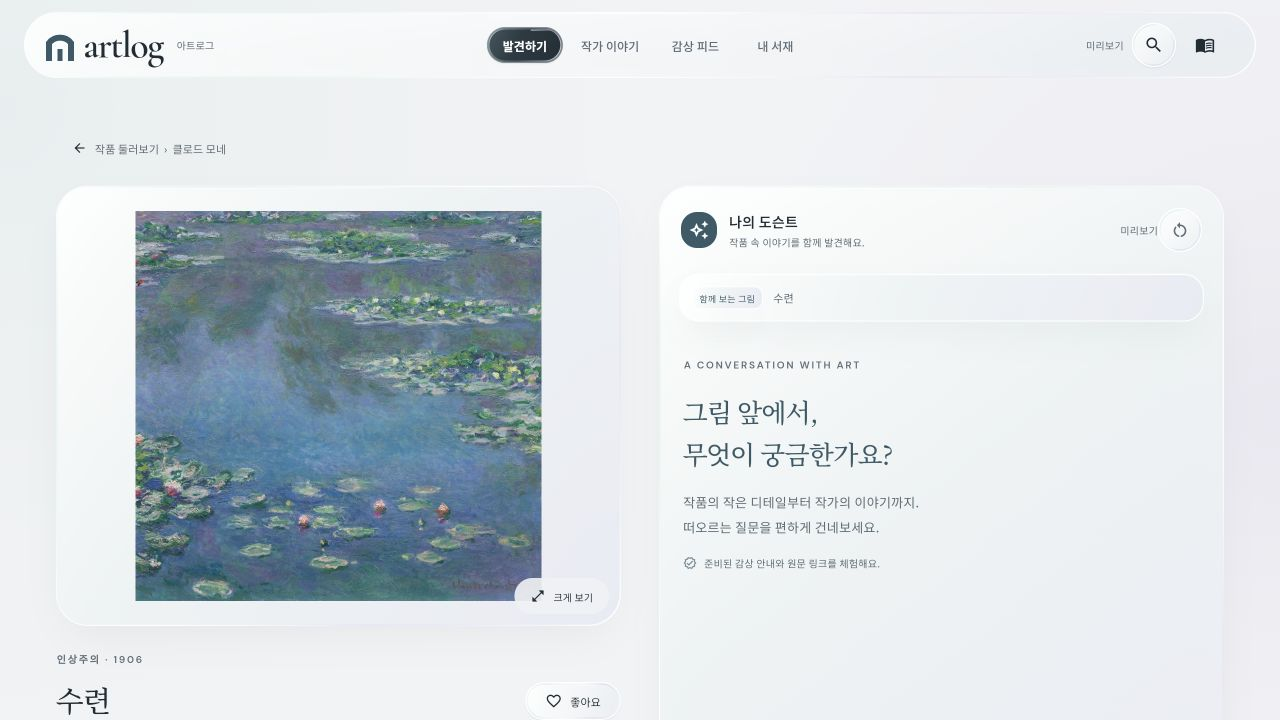
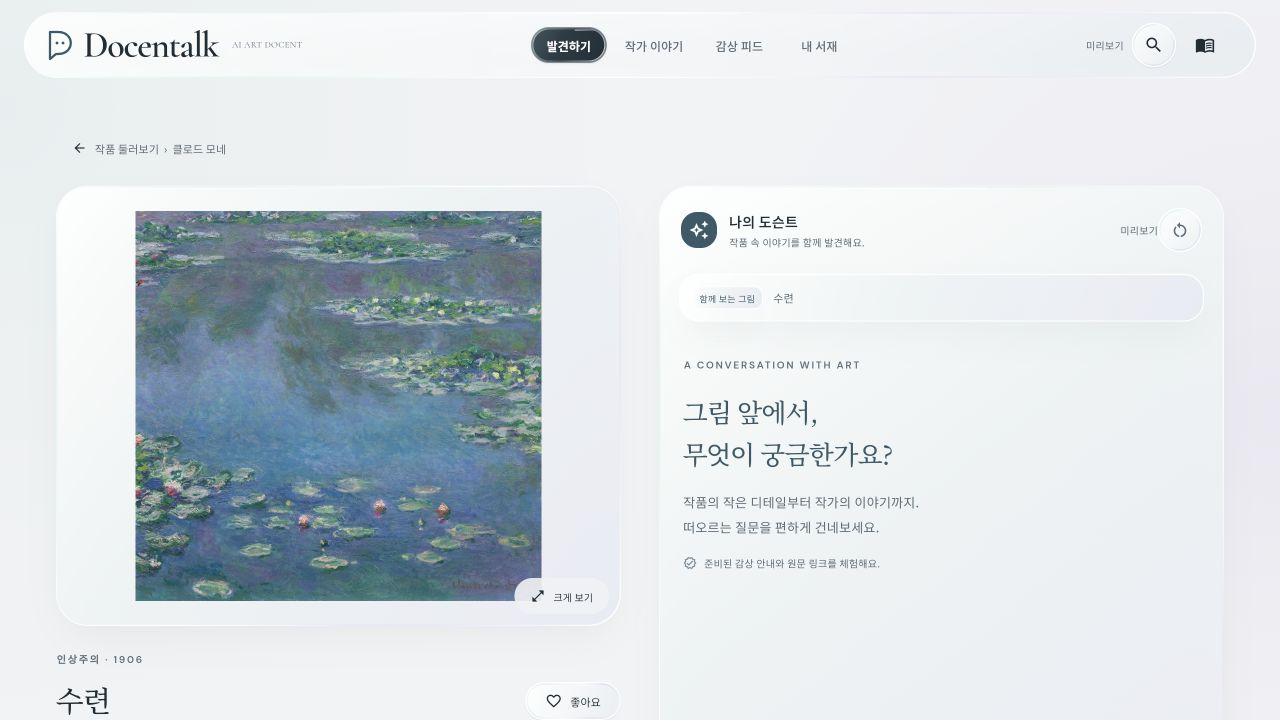
feat: Docentalk 브랜딩과 글라스 UI 완성도 개선

Changed region(s): [[0.375, 0.0306, 0.6562, 0.0917], [0.0312, 0.0306, 0.1875, 0.0917]]

diff --git a/frontend/src/App.tsx b/frontend/src/App.tsx
@@ -26,8 +26,8 @@ export default function App() {
   useEffect(()=>{const listener=()=>{setRoute(readRoute());window.scrollTo({top:0,behavior:'instant'});};window.addEventListener('hashchange',listener);return()=>window.removeEventListener('hashchange',listener);},[]);
   const routeId='id' in route?route.id:'';
   useEffect(()=>{if(route.page==='artwork')collection.recordView(route.id);},[route.page,routeId]);
-  useEffect(()=>{const title=route.page==='artwork'?artworks.find(a=>a.id===routeId)?.titleKo:route.page==='library'?'내 서재':route.page==='artists'?'작가 이야기':'일상에 한 점, 나만의 미술관';document.title=`${title} — 아트로그`;},[route.page,routeId]);
+  useEffect(()=>{const title=route.page==='artwork'?artworks.find(a=>a.id===routeId)?.titleKo:route.page==='library'?'내 서재':route.page==='artists'?'작가 이야기':'일상에 한 점, 나만의 미술관';document.title=`${title} — Docentalk`;},[route.page,routeId]);
   useEffect(()=>{if(!about)return;const listener=(e:KeyboardEvent)=>{if(e.key==='Escape')setAbout(false);};document.addEventListener('keydown',listener);return()=>document.removeEventListener('keydown',listener);},[about]);
   const navigate=(next:Route)=>{const hash='id' in next?`${next.page}/${next.id}`:next.page;if(window.location.hash===`#${hash}`){setRoute(next);window.scrollTo({top:0,behavior:'instant'});}else{window.location.hash=hash;}};
-  return <><a className="skip-link" href="#main-content" onClick={e=>{e.preventDefault();document.getElementById('main-content')?.focus();document.getElementById('main-content')?.scrollIntoView();}}>본문으로 바로가기</a><Header route={route} navigate={navigate} viewedCount={new Set(collection.views.map(v=>v.artworkId)).size} onSearch={query=>{setSearch(query);setSearchRevision(v=>v+1);navigate({page:'gallery'});}}/><div id="main-content" className="main-content" tabIndex={-1}>{route.page==='gallery'&&<GalleryPage collection={collection} navigate={navigate} search={search} searchRevision={searchRevision}/>} {route.page==='artwork'&&<ArtworkDetailPage key={route.id} art={artworks.find(a=>a.id===route.id)!} collection={collection} navigate={navigate}/>} {(route.page==='artists'||route.page==='artist')&&<ArtistsPage collection={collection} navigate={navigate} artistId={route.page==='artist'?route.id:undefined}/>} {route.page==='library'&&<LibraryPage collection={collection} navigate={navigate}/>}</div><footer className="site-footer page-width"><div className="footer-top"><button className="brand" onClick={()=>navigate({page:'gallery'})}><Brand/></button><p>한 점의 그림이, 당신의 하루에 머물기를.</p><button className="text-link" onClick={()=>setAbout(true)}>아트로그에 대하여<ArrowUpRight size={15}/></button></div><div className="footer-bottom"><span>© 2026 ARTLOG. A LITTLE ART, EVERY DAY.</span><span>INTERACTIVE UI PROTOTYPE</span></div></footer>{about&&<div className="about-backdrop" onClick={()=>setAbout(false)}><section className="about-modal" role="dialog" aria-modal="true" aria-label="아트로그 소개" onClick={e=>e.stopPropagation()}><button autoFocus className="about-close icon-button" onClick={()=>setAbout(false)} aria-label="소개 닫기"><X size={21}/></button><div className="eyebrow">ABOUT ARTLOG</div><h2>나만의 속도로 만나는 미술.</h2><p>아트로그는 열 명의 작가와 열두 점의 작품을 탐색하고, 도슨트와 이야기하며 감상의 순간을 모으는 미술관 UI 목업입니다.</p><p>좋아요, 팔로우, 감상 기록은 현재 브라우저에 저장됩니다. 도슨트는 준비된 예시 답변을 제공하며 실제 AI 서비스는 연결되어 있지 않습니다.</p><div className="about-divider"/><div className="eyebrow">DESIGN REFERENCES</div><p>절제된 갤러리, 작품 중심 편집, 확인 가능한 출처에서 영감을 받았습니다.</p>{[{name:'Timelens · Rylic Studio',url:'https://dribbble.com/shots/26018383-Timelens-Art-Gallery-Museum-Website'},{name:'Art Gallery · Maria Sy',url:'https://www.behance.net/gallery/153037463/Art-Gallery-Website-Maiskaia-Alla-UXUI-design'},{name:'Artsy · Collection discovery',url:'https://www.artsy.net/collect'},{name:'Perplexity · Source citations',url:'https://www.perplexity.ai/help-center/en/articles/10352895-how-does-perplexity-work'}].map(r=><a className="reference-link" key={r.name} href={r.url} target="_blank" rel="noreferrer">{r.name}<ArrowUpRight size={16}/></a>)}</section></div>}</>;
+  return <><a className="skip-link" href="#main-content" onClick={e=>{e.preventDefault();document.getElementById('main-content')?.focus();document.getElementById('main-content')?.scrollIntoView();}}>본문으로 바로가기</a><Header route={route} navigate={navigate} viewedCount={new Set(collection.views.map(v=>v.artworkId)).size} onSearch={query=>{setSearch(query);setSearchRevision(v=>v+1);navigate({page:'gallery'});}}/><div id="main-content" className="main-content" tabIndex={-1}>{route.page==='gallery'&&<GalleryPage collection={collection} navigate={navigate} search={search} searchRevision={searchRevision}/>} {route.page==='artwork'&&<ArtworkDetailPage key={route.id} art={artworks.find(a=>a.id===route.id)!} collection={collection} navigate={navigate}/>} {(route.page==='artists'||route.page==='artist')&&<ArtistsPage collection={collection} navigate={navigate} artistId={route.page==='artist'?route.id:undefined}/>} {route.page==='library'&&<LibraryPage collection={collection} navigate={navigate}/>}</div><footer className="site-footer page-width"><div className="footer-top"><button className="brand" onClick={()=>navigate({page:'gallery'})}><Brand/></button><p>한 점의 그림이, 당신의 하루에 머물기를.</p><button className="text-link" onClick={()=>setAbout(true)}>Docentalk에 대하여<ArrowUpRight size={15}/></button></div><div className="footer-bottom"><span>© 2026 DOCENTALK. A LITTLE ART, EVERY DAY.</span><span>INTERACTIVE UI PROTOTYPE</span></div></footer>{about&&<div className="about-backdrop" onClick={()=>setAbout(false)}><section className="about-modal" role="dialog" aria-modal="true" aria-label="Docentalk 소개" onClick={e=>e.stopPropagation()}><button autoFocus className="about-close icon-button" onClick={()=>setAbout(false)} aria-label="소개 닫기"><X size={21}/></button><div className="eyebrow">ABOUT DOCENTALK</div><h2>나만의 속도로 만나는 미술.</h2><p>Docentalk는 열 명의 작가와 열두 점의 작품을 탐색하고, 도슨트와 이야기하며 감상의 순간을 모으는 미술관 UI 목업입니다.</p><p>좋아요, 팔로우, 감상 기록은 현재 브라우저에 저장됩니다. 도슨트는 준비된 예시 답변을 제공하며 실제 AI 서비스는 연결되어 있지 않습니다.</p><div className="about-divider"/><div className="eyebrow">DESIGN REFERENCES</div><p>절제된 갤러리, 작품 중심 편집, 확인 가능한 출처에서 영감을 받았습니다.</p>{[{name:'Timelens · Rylic Studio',url:'https://dribbble.com/shots/26018383-Timelens-Art-Gallery-Museum-Website'},{name:'Art Gallery · Maria Sy',url:'https://www.behance.net/gallery/153037463/Art-Gallery-Website-Maiskaia-Alla-UXUI-design'},{name:'Artsy · Collection discovery',url:'https://www.artsy.net/collect'},{name:'Perplexity · Source citations',url:'https://www.perplexity.ai/help-center/en/articles/10352895-how-does-perplexity-work'}].map(r=><a className="reference-link" key={r.name} href={r.url} target="_blank" rel="noreferrer">{r.name}<ArrowUpRight size={16}/></a>)}</section></div>}</>;
 }

diff --git a/frontend/lib/ui/shell.dart b/frontend/lib/ui/shell.dart
@@ -106,25 +106,29 @@ class Brand extends StatelessWidget {
   const Brand({super.key, this.small = false});
   final bool small;
   @override
-  Widget build(BuildContext context) => Row(
-    mainAxisSize: MainAxisSize.min,
-    children: [
-      CustomPaint(
-        size: Size(small ? 22 : 28, small ? 27 : 32),
-        painter: _BrandMark(),
-      ),
-      const SizedBox(width: 10),
-      Text(
-        'artlog',
-        style: english(
-          small ? 32 : 38,
-        ).copyWith(fontWeight: FontWeight.w600, letterSpacing: -1.5),
-      ),
-      if (!compact(context)) ...[
-        const SizedBox(width: 13),
-        Text('아트로그', style: sans(10, color: muted)),
+  Widget build(BuildContext context) => FittedBox(
+    fit: BoxFit.scaleDown,
+    alignment: Alignment.centerLeft,
+    child: Row(
+      mainAxisSize: MainAxisSize.min,
+      children: [
+        CustomPaint(
+          size: Size(small ? 22 : 28, small ? 27 : 32),
+          painter: _BrandMark(),
+        ),
+        const SizedBox(width: 10),
+        Text(
+          'Docentalk',
+          style: english(
+            small ? 30 : 36,
+          ).copyWith(fontWeight: FontWeight.w600, letterSpacing: -1.2),
+        ),
+        if (MediaQuery.sizeOf(context).width >= 1100) ...[
+          const SizedBox(width: 13),
+          Text('AI ART DOCENT', style: english(9, color: muted)),
+        ],
       ],
-    ],
+    ),
   );
 }
 
@@ -134,20 +138,22 @@ class _BrandMark extends CustomPainter {
     final p = Paint()
       ..color = green
       ..style = PaintingStyle.stroke
-      ..strokeWidth = 6;
+      ..strokeWidth = 2.3
+      ..strokeJoin = StrokeJoin.round;
+    canvas.save();
+    canvas.scale(size.width / 28, size.height / 32);
     final path = Path()
-      ..moveTo(3, size.height)
-      ..lineTo(3, size.width / 2)
-      ..arcToPoint(
-        Offset(size.width - 3, size.width / 2),
-        radius: Radius.circular(size.width / 2),
-      )
-      ..lineTo(size.width - 3, size.height);
+      ..moveTo(4, 3)
+      ..lineTo(12, 3)
+      ..cubicTo(29, 3, 29, 25, 12, 25)
+      ..lineTo(10, 25)
+      ..lineTo(4, 30)
+      ..close();
     canvas.drawPath(path, p);
-    canvas.drawRect(
-      Rect.fromLTWH(size.width / 2 - 2.5, size.height - 12, 5, 12),
-      Paint()..color = green,
-    );
+    for (final x in [11.0, 17.0]) {
+      canvas.drawCircle(Offset(x, 14), 1.4, Paint()..color = green);
+    }
+    canvas.restore();
   }
 
   @override
@@ -275,7 +281,7 @@ class _Header extends StatelessWidget {
                             child: FittedBox(
                               fit: BoxFit.scaleDown,
                               child: Semantics(
-                                label: '아트로그 홈',
+                                label: 'Docentalk 홈',
                                 button: true,
                                 child: InkWell(
                                   onTap: () => context.go('/gallery'),
@@ -297,7 +303,7 @@ class _Header extends StatelessWidget {
                   child: Row(
                     children: [
                       Semantics(
-                        label: '아트로그 홈',
+                        label: 'Docentalk 홈',
                         button: true,
                         child: InkWell(
                           onTap: () => context.go('/gallery'),
@@ -385,7 +391,7 @@ class _Footer extends StatelessWidget {
               TextButton(
                 onPressed: () => showAboutDialog(
                   context: context,
-                  applicationName: '아트로그',
+                  applicationName: 'Docentalk',
                   applicationVersion: '1.0.0',
                   applicationLegalese: '작품 이미지의 출처와 이용 조건은 작품 상세에서 확인할 수 있습니다.',
                   children: [
@@ -397,13 +403,13 @@ class _Footer extends StatelessWidget {
                     ),
                   ],
                 ),
-                child: Text('아트로그에 대하여 ↗', style: sans(11)),
+                child: Text('Docentalk에 대하여 ↗', style: sans(11)),
               ),
             ],
           ),
           const SizedBox(height: 24),
           Text(
-            '© 2026 ARTLOG. A LITTLE ART, EVERY DAY.',
+            '© 2026 DOCENTALK. A LITTLE ART, EVERY DAY.',
             style: const TextStyle(
               fontFamily: 'DMSans',
               fontSize: 9,

diff --git a/frontend/src/components/chat/DocentChat.tsx b/frontend/src/components/chat/DocentChat.tsx
@@ -38,7 +38,7 @@ export default function DocentChat({ art }: { art: Artwork }) {
     <div className="docent-header"><div className="docent-avatar"><Sparkles size={19}/></div><div><h2>당신의 도슨트</h2><p><span className="status-dot"/>함께 그림을 보고 있어요</p></div><span className="demo-badge">체험용</span></div>
     <div className="context-strip"><FileText size={14}/><span>{art.titleKo}</span><span className="context-tag">작품 맥락 유지</span></div>
     <div className="chat-messages" ref={scroll} aria-live="polite"><div className="assistant-intro"><div className="eyebrow"><Sparkles size={13}/> A CONVERSATION WITH ART</div><h3>조금 더 가까이,<br/>그림 속으로.</h3><p>안녕하세요. 《{art.titleKo}》을<br/>함께 감상할 도슨트예요.<br/>어떤 이야기가 궁금하신가요?</p><div className="source-confidence"><Check size={13}/> 준비된 작품 정보로 답해요</div></div>
-      {messages.map((message, i) => <div key={i} className={`chat-message ${message.role}`}><span className="message-author">{message.role === 'user' ? '나의 질문' : <><Sparkles size={13}/> 아트로그 도슨트</>}</span><div className={`message-bubble ${message.outOfScope ? 'out-of-scope' : ''}`}>{message.outOfScope && <span className="scope-label">자료 범위 안내</span>}{message.text}{message.source && <button className="inline-citation" onClick={()=>setShowSources(true)} aria-label="답변 출처 1 보기">1</button>}</div>{message.source && <button className="source-chip" onClick={()=>setShowSources(true)}><FileText size={12}/>{sourceName} · 작품 정보<ArrowUpRight size={12}/></button>}</div>)}
+      {messages.map((message, i) => <div key={i} className={`chat-message ${message.role}`}><span className="message-author">{message.role === 'user' ? '나의 질문' : <><Sparkles size={13}/> Docentalk 도슨트</>}</span><div className={`message-bubble ${message.outOfScope ? 'out-of-scope' : ''}`}>{message.outOfScope && <span className="scope-label">자료 범위 안내</span>}{message.text}{message.source && <button className="inline-citation" onClick={()=>setShowSources(true)} aria-label="답변 출처 1 보기">1</button>}</div>{message.source && <button className="source-chip" onClick={()=>setShowSources(true)}><FileText size={12}/>{sourceName} · 작품 정보<ArrowUpRight size={12}/></button>}</div>)}
       {busy && <div className="typing-indicator" role="status" aria-label="예시 답변을 준비하고 있어요"><i/><i/><i/></div>}
     </div>
     <div className="chat-bottom"><div className="suggested-questions" aria-label="추천 질문">{['언제 그린 그림인가요?', '어디부터 감상하면 좋을까요?', '피카소의 대표작도 알려줘'].map(q=><button key={q} onClick={()=>ask(q)} disabled={busy}>{q}<ChevronRight size={13}/></button>)}</div><form className="chat-input" onSubmit={e=>{e.preventDefault();ask(input);}}><input value={input} onChange={e=>setInput(e.target.value)} placeholder="그림에 대해 궁금한 점을 물어보세요" aria-label="도슨트에게 질문" maxLength={500}/><button type="submit" disabled={!input.trim() || busy} aria-label="질문 보내기"><Send size={17}/></button></form><p className="chat-disclaimer">UI 목업 · 준비된 예시 답변을 보여드려요.</p></div>

diff --git a/frontend/lib/ui/glass.dart b/frontend/lib/ui/glass.dart
@@ -391,30 +391,34 @@ class GlassChoiceChip extends StatelessWidget {
     radius: 100,
     dark: selected,
     interactive: false,
-    child: ChoiceChip(
-      label: label,
-      avatar: avatar,
-      selected: selected,
-      onSelected: onSelected,
-      showCheckmark: false,
-      color: const WidgetStatePropertyAll(Colors.transparent),
-      side: BorderSide.none,
-      shape: const StadiumBorder(),
-      elevation: 0,
-      pressElevation: 0,
-      shadowColor: Colors.transparent,
-      selectedShadowColor: Colors.transparent,
-      labelStyle: TextStyle(
-        fontFamily: 'NotoSansKR',
-        fontSize: 11,
-        fontWeight: selected ? FontWeight.w600 : FontWeight.w500,
-        color: selected ? Colors.white : ink,
+    // RawChip's own Material must not hide the glass beneath transparent Ink.
+    child: Theme(
+      data: Theme.of(context).copyWith(canvasColor: Colors.transparent),
+      child: ChoiceChip(
+        label: label,
+        avatar: avatar,
+        selected: selected,
+        onSelected: onSelected,
+        showCheckmark: false,
+        color: const WidgetStatePropertyAll(Colors.transparent),
+        side: BorderSide.none,
+        shape: const StadiumBorder(),
+        elevation: 0,
+        pressElevation: 0,
+        shadowColor: Colors.transparent,
+        selectedShadowColor: Colors.transparent,
+        labelStyle: TextStyle(
+          fontFamily: 'NotoSansKR',
+          fontSize: 11,
+          fontWeight: selected ? FontWeight.w600 : FontWeight.w500,
+          color: selected ? Colors.white : ink,
+        ),
+        iconTheme: IconThemeData(
+          color: selected ? Colors.white : muted,
+          size: 16,
+        ),
+        padding: const EdgeInsets.symmetric(horizontal: 10, vertical: 8),
       ),
-      iconTheme: IconThemeData(
-        color: selected ? Colors.white : muted,
-        size: 16,
-      ),
-      padding: const EdgeInsets.symmetric(horizontal: 10, vertical: 8),
     ),
   );
 }
@@ -433,16 +437,20 @@ class GlassActionChip extends StatelessWidget {
   Widget build(BuildContext context) => GlassSurface(
     radius: 100,
     interactive: false,
-    child: ActionChip(
-      label: label,
-      avatar: avatar,
-      onPressed: onPressed,
-      backgroundColor: Colors.transparent,
-      disabledColor: Colors.transparent,
-      side: BorderSide.none,
-      elevation: 0,
-      pressElevation: 0,
-      padding: const EdgeInsets.symmetric(horizontal: 8, vertical: 6),
+    child: Theme(
+      data: Theme.of(context).copyWith(canvasColor: Colors.transparent),
+      child: ActionChip(
+        label: label,
+        avatar: avatar,
+        onPressed: onPressed,
+        color: const WidgetStatePropertyAll(Colors.transparent),
+        backgroundColor: Colors.transparent,
+        disabledColor: Colors.transparent,
+        side: BorderSide.none,
+        elevation: 0,
+        pressElevation: 0,
+        padding: const EdgeInsets.symmetric(horizontal: 8, vertical: 6),
+      ),
     ),
   );
 }

diff --git a/frontend/src/components/common/Header.tsx b/frontend/src/components/common/Header.tsx
@@ -2,14 +2,14 @@ import { ArrowUpRight, BookOpen, Search, X } from 'lucide-react';
 import { useState } from 'react';
 import type { Route } from '../../types/catalog';
 
-export function Brand() { return <><span className="brand-mark" aria-hidden="true"><i /></span><span className="brand-word">artlog<span>아트로그</span></span></>; }
+export function Brand() { return <><span className="brand-mark" aria-hidden="true"><i /></span><span className="brand-word">Docentalk<span>AI ART DOCENT</span></span></>; }
 interface Props { route: Route; navigate: (route: Route) => void; onSearch: (query: string) => void; viewedCount: number }
 export default function Header({ route, navigate, onSearch, viewedCount }: Props) {
   const [searchOpen, setSearchOpen] = useState(false);
   const [query, setQuery] = useState('');
   const active = route.page === 'artwork' ? 'gallery' : route.page === 'artist' ? 'artists' : route.page;
   return <header className="site-header"><div className="header-inner">
-    <button className="brand" onClick={() => navigate({ page: 'gallery' })} aria-label="아트로그 홈"><Brand /></button>
+    <button className="brand" onClick={() => navigate({ page: 'gallery' })} aria-label="Docentalk 홈"><Brand /></button>
     <nav aria-label="주 메뉴">{[{ page: 'gallery', label: '발견하기' }, { page: 'artists', label: '작가 이야기' }, { page: 'library', label: '내 서재' }].map(item => <button key={item.page} className={active === item.page ? 'active' : ''} onClick={() => navigate({ page: item.page as 'gallery' | 'artists' | 'library' })}>{item.label}{item.page === 'library' && viewedCount > 0 && <span className="nav-count">{viewedCount}</span>}</button>)}</nav>
     <div className="header-tools"><span className="header-tagline">일상에 한 점.</span><button className="icon-button search-toggle" onClick={() => setSearchOpen(v => !v)} aria-label={searchOpen ? '검색 닫기' : '작품 검색'}>{searchOpen ? <X size={21} /> : <Search size={20} />}</button><button className="profile-button" onClick={() => navigate({ page: 'library' })} aria-label="나의 감상 기록"><BookOpen size={17} /></button></div>
   </div>{searchOpen && <form className="global-search" onSubmit={e => { e.preventDefault(); onSearch(query); setSearchOpen(false); }}><Search size={20}/><input autoFocus value={query} onChange={e => setQuery(e.target.value)} placeholder="작품명이나 작가 이름을 입력하세요" aria-label="전체 작품 검색어"/><button className="text-link" type="submit">찾아보기<ArrowUpRight size={17}/></button></form>}</header>;

diff --git a/frontend/web/index.html b/frontend/web/index.html
@@ -4,20 +4,24 @@
   <base href="$FLUTTER_BASE_HREF">
   <meta charset="UTF-8">
   <meta name="viewport" content="width=device-width, initial-scale=1.0">
-  <meta name="theme-color" content="#f7f6f2">
-  <meta name="description" content="한 점의 그림에서 시작하는 나만의 미술관. 아트로그">
+  <meta name="theme-color" content="#f1f2f4">
+  <meta name="description" content="AI 도슨트와 그림을 이야기하고 감상의 순간을 기록하는 나만의 미술관, Docentalk.">
+  <meta name="application-name" content="Docentalk">
+  <meta property="og:title" content="Docentalk · 그림과 나누는 대화">
+  <meta property="og:description" content="AI 도슨트와 작품을 만나고, 나만의 감상과 컬렉션을 모아보세요.">
+  <meta property="og:type" content="website">
   <link rel="icon" href="favicon.svg" type="image/svg+xml">
   <link rel="manifest" href="manifest.json">
-  <title>아트로그 · 일상에 한 점</title>
+  <title>Docentalk · 일상에 한 점</title>
   <style>
-    html,body{margin:0;background:#f7f6f2;height:100%;color:#364e40}
+    html,body{margin:0;background:#f1f2f4;height:100%;color:#202c34}
     #loading{height:100%;display:grid;place-content:center;text-align:center;font:14px sans-serif;gap:15px}
     #loading strong{font:52px Georgia,serif;letter-spacing:-2px}
     #loading span{opacity:.7}
   </style>
 </head>
 <body>
-  <div id="loading" role="status"><strong>artlog</strong><span>그림을 만날 준비를 하고 있어요.</span></div>
+  <div id="loading" role="status"><strong>Docentalk</strong><span>그림을 만날 준비를 하고 있어요.</span></div>
   <script src="flutter_bootstrap.js" async></script>
 </body>
 </html>

diff --git a/frontend/test/optical_glass_test.dart b/frontend/test/optical_glass_test.dart
@@ -6,6 +6,37 @@ import 'package:artlog_web/ui/design.dart';
 import 'package:artlog_web/ui/app_theme.dart';
 
 void main() {
+  testWidgets('selected glass chip retains its dark surface and toggles', (
+    tester,
+  ) async {
+    var selected = true;
+    await tester.pumpWidget(
+      MaterialApp(
+        theme: artlogTheme(),
+        home: Scaffold(
+          body: StatefulBuilder(
+            builder: (context, setState) => GlassChoiceChip(
+              label: const Text('내 컬렉션'),
+              selected: selected,
+              onSelected: (value) => setState(() => selected = value),
+            ),
+          ),
+        ),
+      ),
+    );
+    final chip = find.byType(ChoiceChip);
+    final material = find.descendant(of: chip, matching: find.byType(Material));
+    expect(material, findsOneWidget);
+    // A transparent Ink alone still hides the dark glass if Material is white.
+    expect(Theme.of(tester.element(material)).canvasColor, Colors.transparent);
+    expect(tester.widget<ChoiceChip>(chip).labelStyle!.color, Colors.white);
+    expect(tester.widget<GlassSurface>(find.byType(GlassSurface)).dark, isTrue);
+    await tester.tap(chip);
+    await tester.pumpAndSettle();
+    expect(selected, false);
+    expect(tester.widget<ChoiceChip>(chip).labelStyle!.color, ink);
+    expect(tester.takeException(), isNull);
+  });
   testWidgets(
     'glass buttons preserve keyboard activation and disabled actions',
     (tester) async {

diff --git a/frontend/lib/auth/firebase_session.dart b/frontend/lib/auth/firebase_session.dart
@@ -78,7 +78,7 @@ class FirebaseSession implements AuthSession {
         'cancelled-popup-request' => 'Google 로그인이 취소됐어요. 다시 시작할 수 있어요.',
         'popup-blocked' => '브라우저에서 팝업을 허용한 뒤 Google 로그인을 다시 눌러주세요.',
         'unauthorized-domain' =>
-          '이 주소에서는 Google 로그인을 사용할 수 없어요. 아트로그 운영 주소를 이용해 주세요.',
+          '이 주소에서는 Google 로그인을 사용할 수 없어요. Docentalk 운영 주소를 이용해 주세요.',
         'account-exists-with-different-credential' =>
           '이미 다른 방법으로 가입한 이메일이에요. 처음 가입한 방법으로 로그인해 주세요.',
         'network-request-failed' => '로그인 서비스에 연결하지 못했어요. 인터넷 연결을 확인해 주세요.',

diff --git a/frontend/index.html b/frontend/index.html
@@ -6,7 +6,7 @@
     <meta name="theme-color" content="#f7f6f2" />
     <meta name="description" content="한 점의 그림에서 시작하는 나만의 미술관. 작품을 발견하고, 도슨트와 대화하고, 감상의 순간을 기록하세요." />
     <link rel="icon" type="image/svg+xml" href="/favicon.svg" />
-    <title>아트로그 — 일상에 한 점, 나만의 미술관</title>
+    <title>Docentalk — 일상에 한 점, 나만의 미술관</title>
     <link rel="preconnect" href="https://fonts.googleapis.com" />
     <link rel="preconnect" href="https://fonts.gstatic.com" crossorigin />
     <link href="https://fonts.googleapis.com/css2?family=DM+Sans:wght@400;500;600;700&family=Noto+Sans+KR:wght@400;500;600;700&family=Noto+Serif+KR:wght@400;500;600&display=swap" rel="stylesheet" />

diff --git a/frontend/test/app_test.dart b/frontend/test/app_test.dart
@@ -37,7 +37,7 @@ void main() {
     return state;
   }
 
-  for (final width in [1440.0, 768.0, 390.0, 320.0]) {
+  for (final width in [1440.0, 850.0, 768.0, 390.0, 320.0]) {
     for (final route in [
       '/gallery',
       '/artists',
@@ -58,7 +58,7 @@ void main() {
         );
         await tester.pumpAndSettle();
         expect(tester.takeException(), isNull);
-        expect(find.text('아트로그에 대하여 ↗'), findsOneWidget);
+        expect(find.text('Docentalk에 대하여 ↗'), findsOneWidget);
         await tester.pumpWidget(const SizedBox());
         state.dispose();
       });

diff --git a/frontend/lib/ui/docent_chat.dart b/frontend/lib/ui/docent_chat.dart
@@ -240,7 +240,7 @@ class _DocentChatState extends State<DocentChat> {
                             : CrossAxisAlignment.start,
                         children: [
                           Text(
-                            m.role == 'user' ? '나' : '✳  아트로그 도슨트',
+                            m.role == 'user' ? '나' : '✳  Docentalk 도슨트',
                             style: sans(10, color: muted),
                           ),
                           const SizedBox(height: 7),

diff --git a/frontend/lib/main.dart b/frontend/lib/main.dart
@@ -163,7 +163,7 @@ class _ArtlogAppState extends State<ArtlogApp> {
   Widget build(BuildContext context) => ArtlogScope(
     state: widget.state,
     child: MaterialApp.router(
-      title: '아트로그 · 일상에 한 점',
+      title: 'Docentalk · 일상에 한 점',
       debugShowCheckedModeBanner: false,
       routerConfig: router,
       locale: const Locale('ko'),
